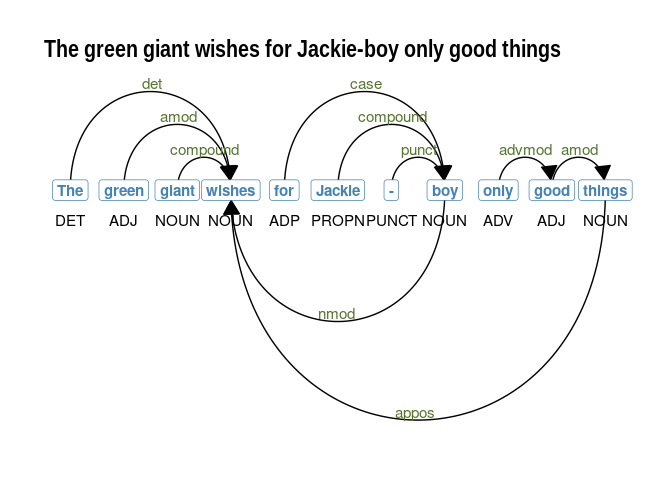
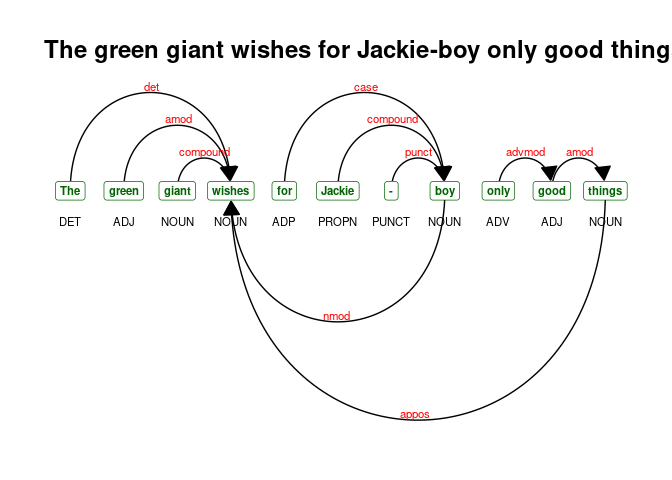
re

diff --git a/README.md b/README.md
@@ -43,11 +43,11 @@ news <- quicknews::qnews_extract_article(url = meta$link[1:20],
 strwrap(news$text[10], width = 60)[1:5]
 ```
 
-    ## [1] "WASHINGTON (AP) — The Senate moved closer to passing a $1" 
-    ## [2] "trillion bipartisan infrastructure package Saturday after" 
-    ## [3] "lawmakers from both parties came together and voted to"    
-    ## [4] "clear a key procedural hurdle, but the action soon stalled"
-    ## [5] "out as a few Republican opponents refused to speed up"
+    ## [1] "August 8, 2021 - President Joe Biden proclaims the week of" 
+    ## [2] "August 8 through August 14, 2021, as National Health Center"
+    ## [3] "Week.   In 1965, our Nation launched its first community"   
+    ## [4] "health centers to improve the lives and well-being of"      
+    ## [5] "Americans regardless of their ability to pay.  These health"
 
 ### PubMed abstracts
 
@@ -93,20 +93,17 @@ tsearch <- rtweet::search_tweets(q = '#Jan6',
 strwrap(tsearch$text[1], width = 60)
 ```
 
-    ## [1] "@SeditionHunters Ugh. 1. This is the direct result of #DOJ"
-    ## [2] "and judges not taking insurrectionists seriously and"      
-    ## [3] "locking them up until trial to secure public safety. Weak" 
-    ## [4] "release permissions continue to be the theme of #Jan6"     
-    ## [5] "cases."
+    ## [1] "Get the call logs from Jan 2020 through noon on Jan 20,"
+    ## [2] "2021!!! WTF is this even a question!! #Jan6"            
+    ## [3] "https://t.co/DHhc7tZPVg"
 
 Processing
 ----------
 
 ### Sentence extraction
 
-> Sentence identification/extraction can be challenging. The
-> `pmtk_toke_sentences` function from the PumbedMTK package is a simple
-> wrapper to the `corpus::text_split` function.
+> The `pmtk_toke_sentences` function from the PumbedMTK package is a
+> simple wrapper to the `corpus::text_split` function.
 
 ``` r
 sentences <- PubmedMTK::pmtk_toke_sentences(text = news$text,
@@ -358,14 +355,14 @@ collocations0 %>%
   knitr::kable()
 ```
 
-| keyword                 |  freq|     pmi|
-|:------------------------|-----:|-------:|
-| feels like              |     3|  10.305|
-| Mr Biden                |     7|   6.319|
-| GOP governors           |     4|   6.799|
-| the eviction moratorium |     3|  10.955|
-| the Center for          |     3|   6.892|
-| public health           |     4|   7.273|
+| keyword         |  freq|     pmi|
+|:----------------|-----:|-------:|
+| to do the right |     4|   9.984|
+| in the world    |     4|   6.964|
+| or otherwise    |     3|   8.215|
+| United States   |    11|  10.528|
+| as well         |     6|   6.973|
+| is going        |     5|   5.616|
 
 ### Noun phrases
 
@@ -393,13 +390,13 @@ nps1 %>%
   knitr::kable()
 ```
 
-| keyword                     | pattern |  ngram|    n|
-|:----------------------------|:--------|------:|----:|
-| lady\_Michelle\_Obama       | NNN     |      3|    1|
-| free\_society               | AN      |      2|    1|
-| US\_Capitol\_on\_January    | NNPN    |      4|    1|
-| malign\_influence\_at\_work | ANPN    |      4|    1|
-| American\_Rescue\_Plan      | NNN     |      3|    1|
+| keyword                             | pattern |  ngram|    n|
+|:------------------------------------|:--------|------:|----:|
+| assembly\_plant\_in\_Pennsylvania’s | NNPN    |      4|    1|
+| presidents\_Donald                  | NN      |      2|    1|
+| one\_aide                           | AN      |      2|    1|
+| public\_support                     | AN      |      2|    1|
+| comeback\_primary\_campaign         | NAN     |      3|    1|
 
 ### Tokenizing multi-word expressions
 
@@ -451,13 +448,13 @@ str(dtm)
 ```
 
     ## Formal class 'dgCMatrix' [package "Matrix"] with 6 slots
-    ##   ..@ i       : int [1:5275] 0 1 3 4 5 9 10 11 14 15 ...
-    ##   ..@ p       : int [1:3106] 0 13 30 38 41 48 67 79 95 111 ...
-    ##   ..@ Dim     : int [1:2] 19 3105
+    ##   ..@ i       : int [1:6086] 0 1 2 4 5 6 7 9 10 11 ...
+    ##   ..@ p       : int [1:3380] 0 16 35 44 47 55 75 90 105 120 ...
+    ##   ..@ Dim     : int [1:2] 20 3379
     ##   ..@ Dimnames:List of 2
-    ##   .. ..$ : chr [1:19] "1" "10" "11" "12" ...
-    ##   .. ..$ : chr [1:3105] "-" "," ":" "!" ...
-    ##   ..@ x       : num [1:5275] 12 9 3 18 1 1 4 6 6 11 ...
+    ##   .. ..$ : chr [1:20] "1" "10" "11" "12" ...
+    ##   .. ..$ : chr [1:3379] "-" "," ":" "!" ...
+    ##   ..@ x       : num [1:6086] 12 4 3 9 18 1 2 7 1 6 ...
     ##   ..@ factors : list()
 
 ### Rebuilding text
@@ -466,19 +463,14 @@ str(dtm)
 new_text <- data.table::setDT(x2)[, list(text = paste(newness, collapse = " ")), 
                                   by = doc_id]
 
-strwrap(new_text$text[5], width = 60)[1:10]
+strwrap(new_text$text[5], width = 60)[1:5]
 ```
 
-    ##  [1] "( CNN ) Joe Biden's presidential_honeymoon have officially" 
-    ##  [2] "end , with a series of problem - - lead by the"             
-    ##  [3] "ongoing_surge of the delta variant of the coronavirus - -"  
-    ##  [4] "coalescing to make the last_few_days some of the worst_ones"
-    ##  [5] "he have spend as president . the point - - now on youtube !"
-    ##  [6] "in each episode of he weekly YouTube show , Chris Cillizza" 
-    ##  [7] "will delve a little_deeper into the"                        
-    ##  [8] "surreal_world_of_politics . click to subscribe !"           
-    ##  [9] NA                                                           
-    ## [10] NA
+    ## [1] "( CNN ) Joe Biden's presidential_honeymoon have officially" 
+    ## [2] "end , with a series of problem - - lead by the"             
+    ## [3] "ongoing_surge of the delta variant of the coronavirus - -"  
+    ## [4] "coalescing to make the last_few_days some of the worst_ones"
+    ## [5] "he have spend as president . the point - - now on youtube !"
 
 doc2vec
 -------
@@ -503,22 +495,22 @@ both <- do.call(rbind, list(embedding.docs, embedding.words))
 ```
 
 ``` r
-predict(model.d2v, 'biden', 
+predict(model.d2v, 'Biden', 
         type = "nearest",
         which = "word2word")[[1]]
 ```
 
-    ##    term1                 term2    similarity rank
-    ## 1  biden       @N\xa4\x97\xedU -6.739813e-24    1
-    ## 2  biden    \xf0\xb6=\xa4\xedU  1.558796e+16    2
-    ## 3  biden                       -1.231492e+25    3
-    ## 4  biden          @&9\x98\xedU -8.185750e+26    4
-    ## 5  biden          kQnZ\x95\177  2.026618e+16    5
-    ## 6  biden      \xfd\xff\xff\xff  1.401298e-45    6
-    ## 7  biden                       -7.168833e-25    7
-    ## 8  biden                     $  1.536147e+16    8
-    ## 9  biden          xo"\x9d\xedU -4.342468e-20    9
-    ## 10 biden \003\x8b\x9b\x96\xedU  1.401298e-45   10
+    ##    term1       term2 similarity rank
+    ## 1  Biden         yet  0.9094913    1
+    ## 2  Biden        want  0.9051867    2
+    ## 3  Biden    Governor  0.8984227    3
+    ## 4  Biden      anyone  0.8955018    4
+    ## 5  Biden    although  0.8914970    5
+    ## 6  Biden        seem  0.8857898    6
+    ## 7  Biden         I'm  0.8849170    7
+    ## 8  Biden   important  0.8815561    8
+    ## 9  Biden Machiavelli  0.8785341    9
+    ## 10 Biden     doesnot  0.8752789   10
 
 Search
 ------
@@ -532,60 +524,60 @@ egs <- PubmedMTK::pmtk_locate_term(text = a1,
                                    stem = F,
                                    window = 10)
 
-egs %>% head() %>% knitr::kable(align = c('lrcl'))
+egs %>% head() %>% knitr::kable()
 ```
 
-<table>
+<table style="width:100%;">
 <colgroup>
-<col style="width: 3%" />
-<col style="width: 44%" />
-<col style="width: 6%" />
-<col style="width: 44%" />
+<col style="width: 4%" />
+<col style="width: 45%" />
+<col style="width: 5%" />
+<col style="width: 45%" />
 </colgroup>
 <thead>
 <tr class="header">
 <th style="text-align: left;">doc_id</th>
-<th style="text-align: right;">lhs</th>
-<th style="text-align: center;">instance</th>
+<th style="text-align: left;">lhs</th>
+<th style="text-align: left;">instance</th>
 <th style="text-align: left;">rhs</th>
 </tr>
 </thead>
 <tbody>
 <tr class="odd">
 <td style="text-align: left;">1.8</td>
-<td style="text-align: right;">to confront his crooked predecessor and bring him to justice ,</td>
-<td style="text-align: center;">Joe Biden</td>
+<td style="text-align: left;">to confront his crooked predecessor and bring him to justice ,</td>
+<td style="text-align: left;">Joe Biden</td>
 <td style="text-align: left;">feeds delusional Trump’s sense of godlike impunity , and the dread</td>
 </tr>
 <tr class="even">
 <td style="text-align: left;">2.2</td>
-<td style="text-align: right;">bipartisan infrastructure bill and repairing the U.S. image abroad , President</td>
-<td style="text-align: center;">Joe Biden</td>
+<td style="text-align: left;">bipartisan infrastructure bill and repairing the U.S. image abroad , President</td>
+<td style="text-align: left;">Joe Biden</td>
 <td style="text-align: left;">should be heading out on vacation and a traditional August break</td>
 </tr>
 <tr class="odd">
 <td style="text-align: left;">3.1</td>
-<td style="text-align: right;">1,600 people affected by the September 11 attacks are asking President</td>
-<td style="text-align: center;">Joe Biden</td>
+<td style="text-align: left;">1,600 people affected by the September 11 attacks are asking President</td>
+<td style="text-align: left;">Joe Biden</td>
 <td style="text-align: left;">to refrain from coming to Ground Zero to mark the 20th</td>
 </tr>
 <tr class="even">
-<td style="text-align: left;">6.2</td>
-<td style="text-align: right;">With rare exceptions ,</td>
-<td style="text-align: center;">Joe Biden</td>
-<td style="text-align: left;">throughout his presidency has stressed his determination to cooperate with the</td>
+<td style="text-align: left;">6.3</td>
+<td style="text-align: left;">The bipartisan infrastructure deal embraced by President</td>
+<td style="text-align: left;">Joe Biden</td>
+<td style="text-align: left;">and shaped by a gang of 10 senators is inching closer</td>
 </tr>
 <tr class="odd">
-<td style="text-align: left;">6.96</td>
-<td style="text-align: right;">“ Will</td>
-<td style="text-align: center;">Joe Biden</td>
-<td style="text-align: left;">feel he’s in a good place for reelection when we don’t</td>
+<td style="text-align: left;">7.2</td>
+<td style="text-align: left;">With rare exceptions ,</td>
+<td style="text-align: left;">Joe Biden</td>
+<td style="text-align: left;">throughout his presidency has stressed his determination to cooperate with the</td>
 </tr>
 <tr class="even">
-<td style="text-align: left;">7.1</td>
-<td style="text-align: right;">long — but it illustrated a crucial lesson in leadership that</td>
-<td style="text-align: center;">Joe Biden</td>
-<td style="text-align: left;">needs to learn , and soon .</td>
+<td style="text-align: left;">7.96</td>
+<td style="text-align: left;">“ Will</td>
+<td style="text-align: left;">Joe Biden</td>
+<td style="text-align: left;">feel he’s in a good place for reelection when we don’t</td>
 </tr>
 </tbody>
 </table>
@@ -599,49 +591,9 @@ Odds
 sentence <- "The green giant wishes for Jackie-boy only good things"
 sent_depend <- udpipe::udpipe(udmodel, x = sentence)
 
-plot_annotation <- function(x, size = 3){
-  
-  x <- x[!is.na(x$head_token_id), ]
-  x <- x[x$sentence_id %in% min(x$sentence_id), ]
-  edges <- x[x$head_token_id != 0, c("token_id", 
-                                     "head_token_id", 
-                                     "dep_rel")]
-  edges$label <- edges$dep_rel
-  
-  g <- igraph::graph_from_data_frame(edges,
-                                     vertices = x[, c("token_id",
-                                                      "token",
-                                                      "lemma",
-                                                      "upos",
-                                                      "xpos",
-                                                      "feats")],
-                                     directed = TRUE)
-  
-  ggraph::ggraph(g, layout = "linear") +
-    ggraph::geom_edge_arc(ggplot2::aes(label = dep_rel, vjust = -0.20),
-                          arrow = grid::arrow(length = unit(4, 'mm'), 
-                                              ends = "last", 
-                                              type = "closed"),
-                          end_cap = ggraph::label_rect("w123"),
-                          label_colour = "#55752f", 
-                          check_overlap = TRUE, 
-                          label_size = size) +
-    
-    ggraph::geom_node_label(ggplot2::aes(label = token), 
-                            col = "steelblue", 
-                            size = size, 
-                            fontface = "bold") +
-    
-    ggraph::geom_node_text(ggplot2::aes(label = upos), 
-                           nudge_y = -0.35, 
-                           size = size) +
-    
-    ggraph::theme_graph() 
-}
-
-
-plot_annotation(sent_depend, size = 4) +
-  labs(title = sentence)
+textplot::textplot_dependencyparser(sent_depend, title = sentence, subtitle = NULL)
 ```
+
+    ## Loading required namespace: ggraph
 
 ![](README_files/figure-markdown_github/unnamed-chunk-22-1.png)
